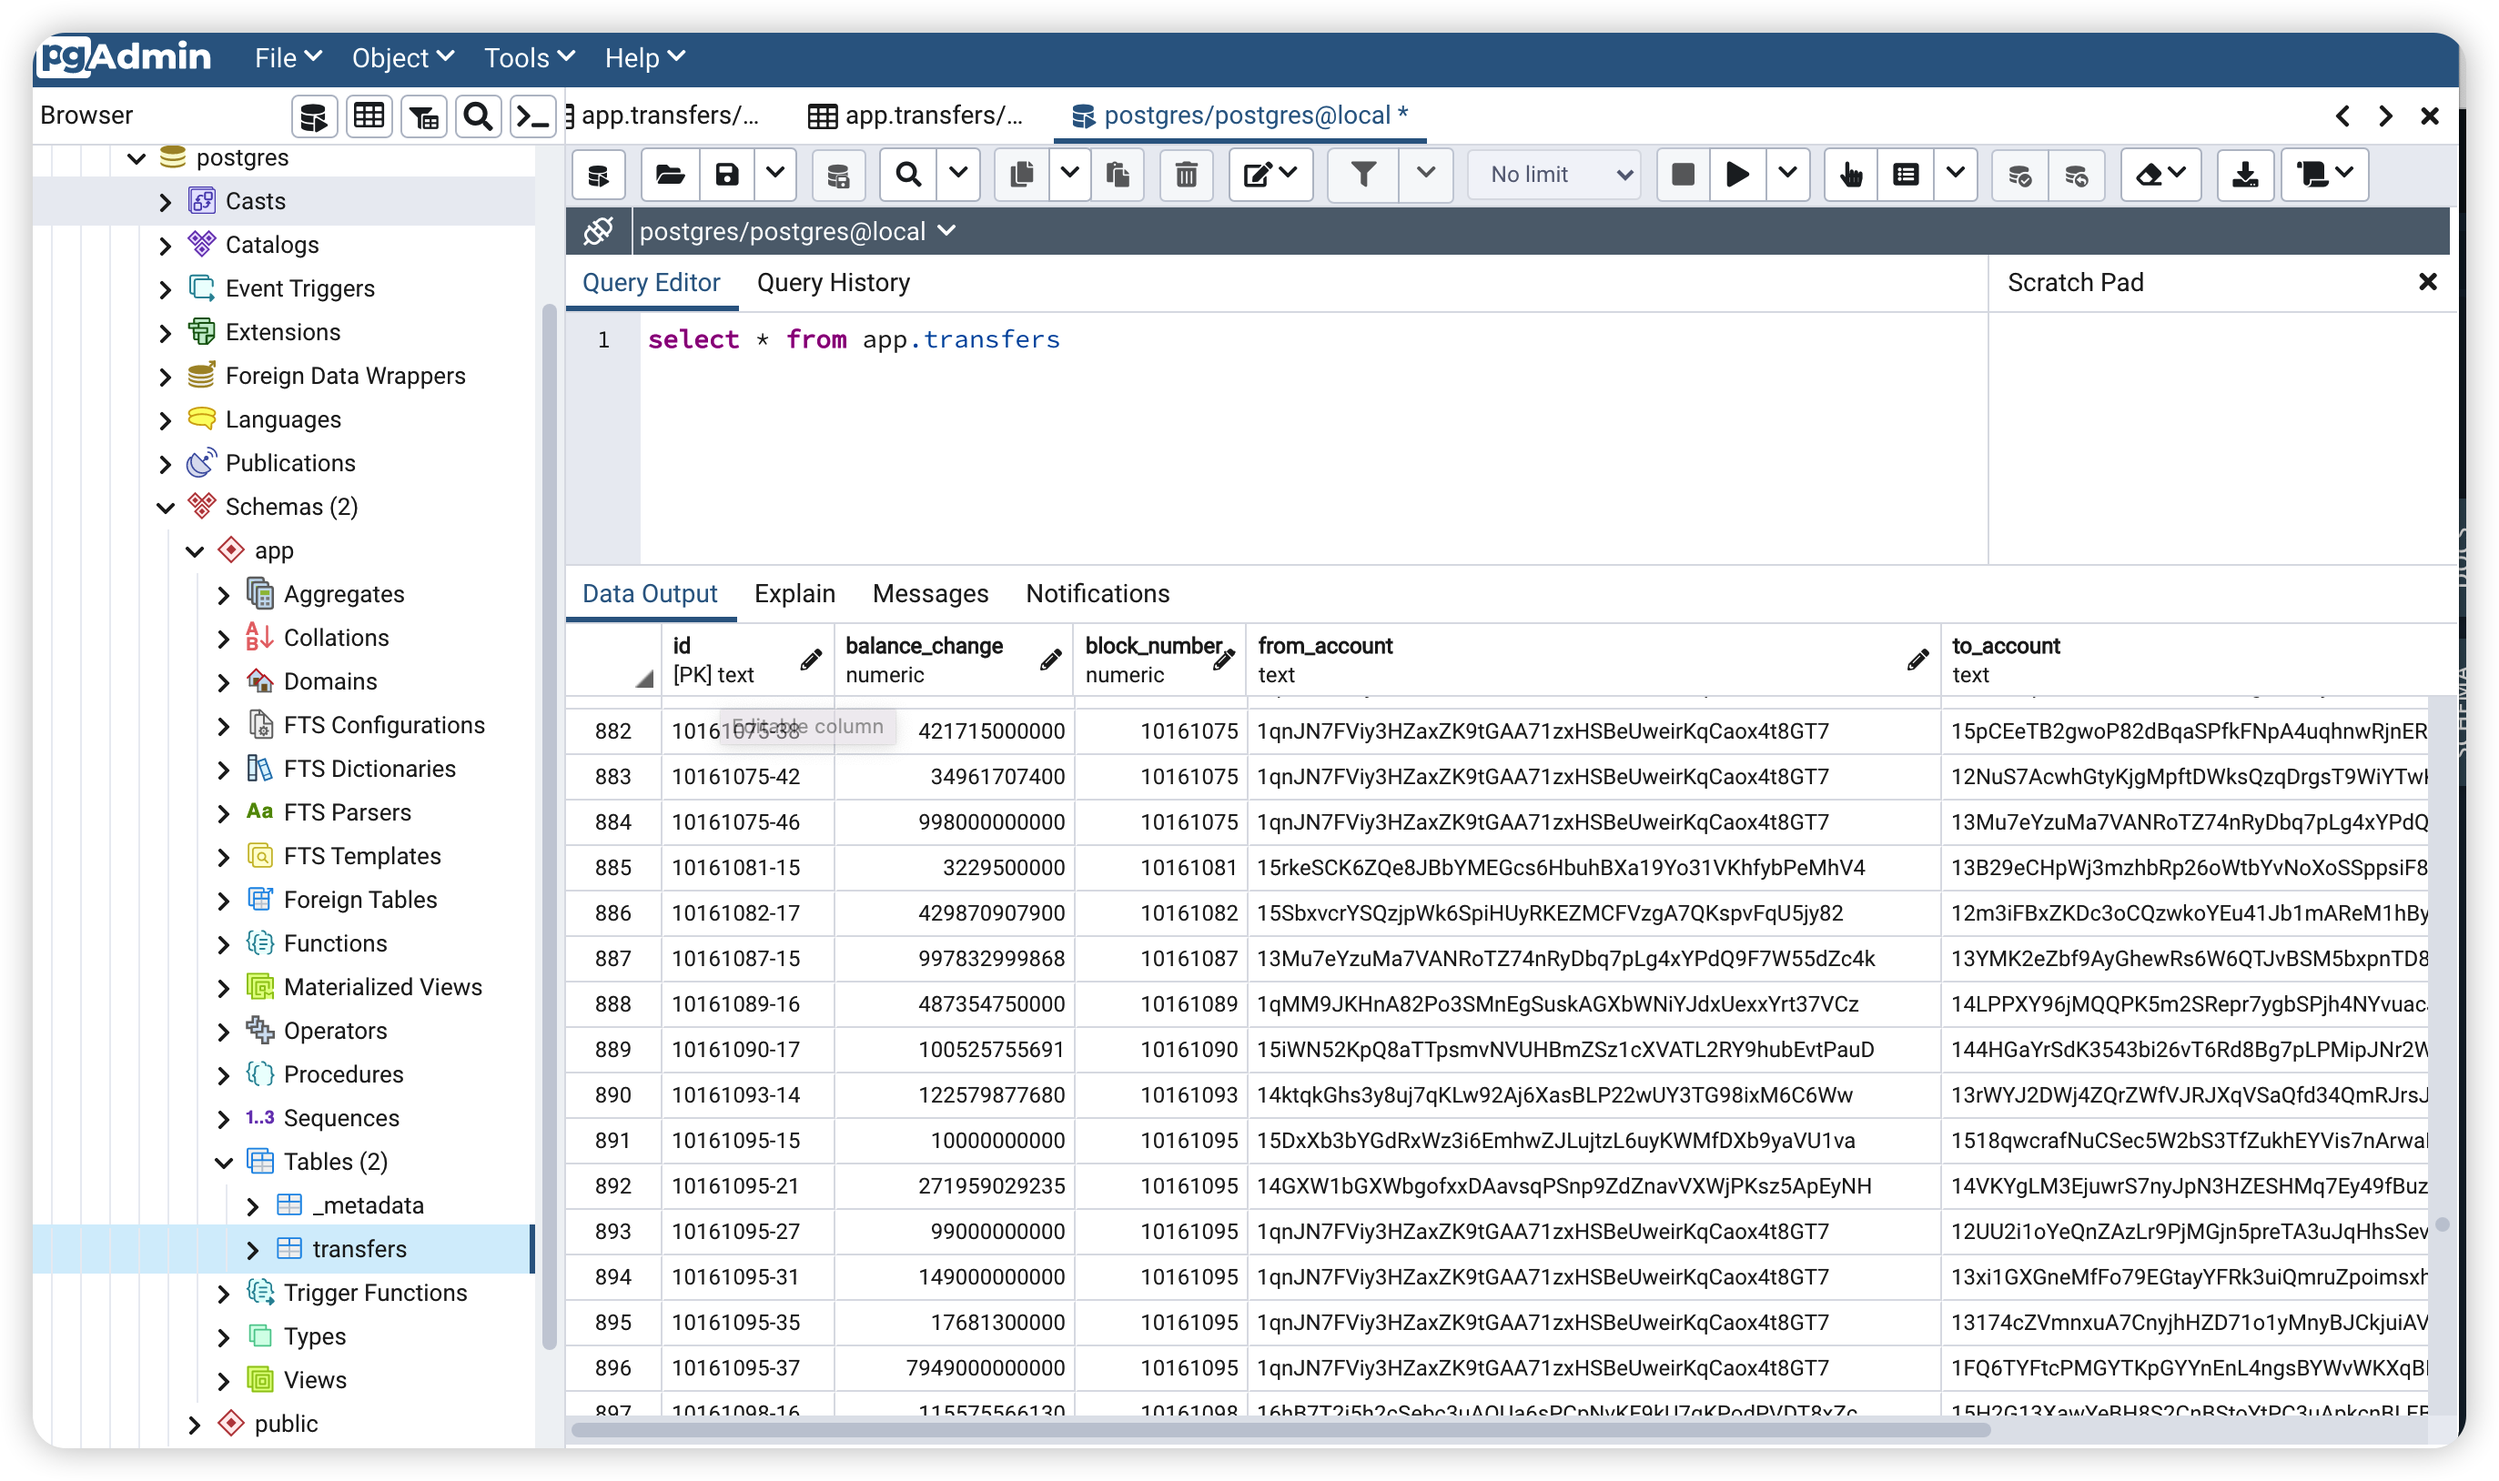
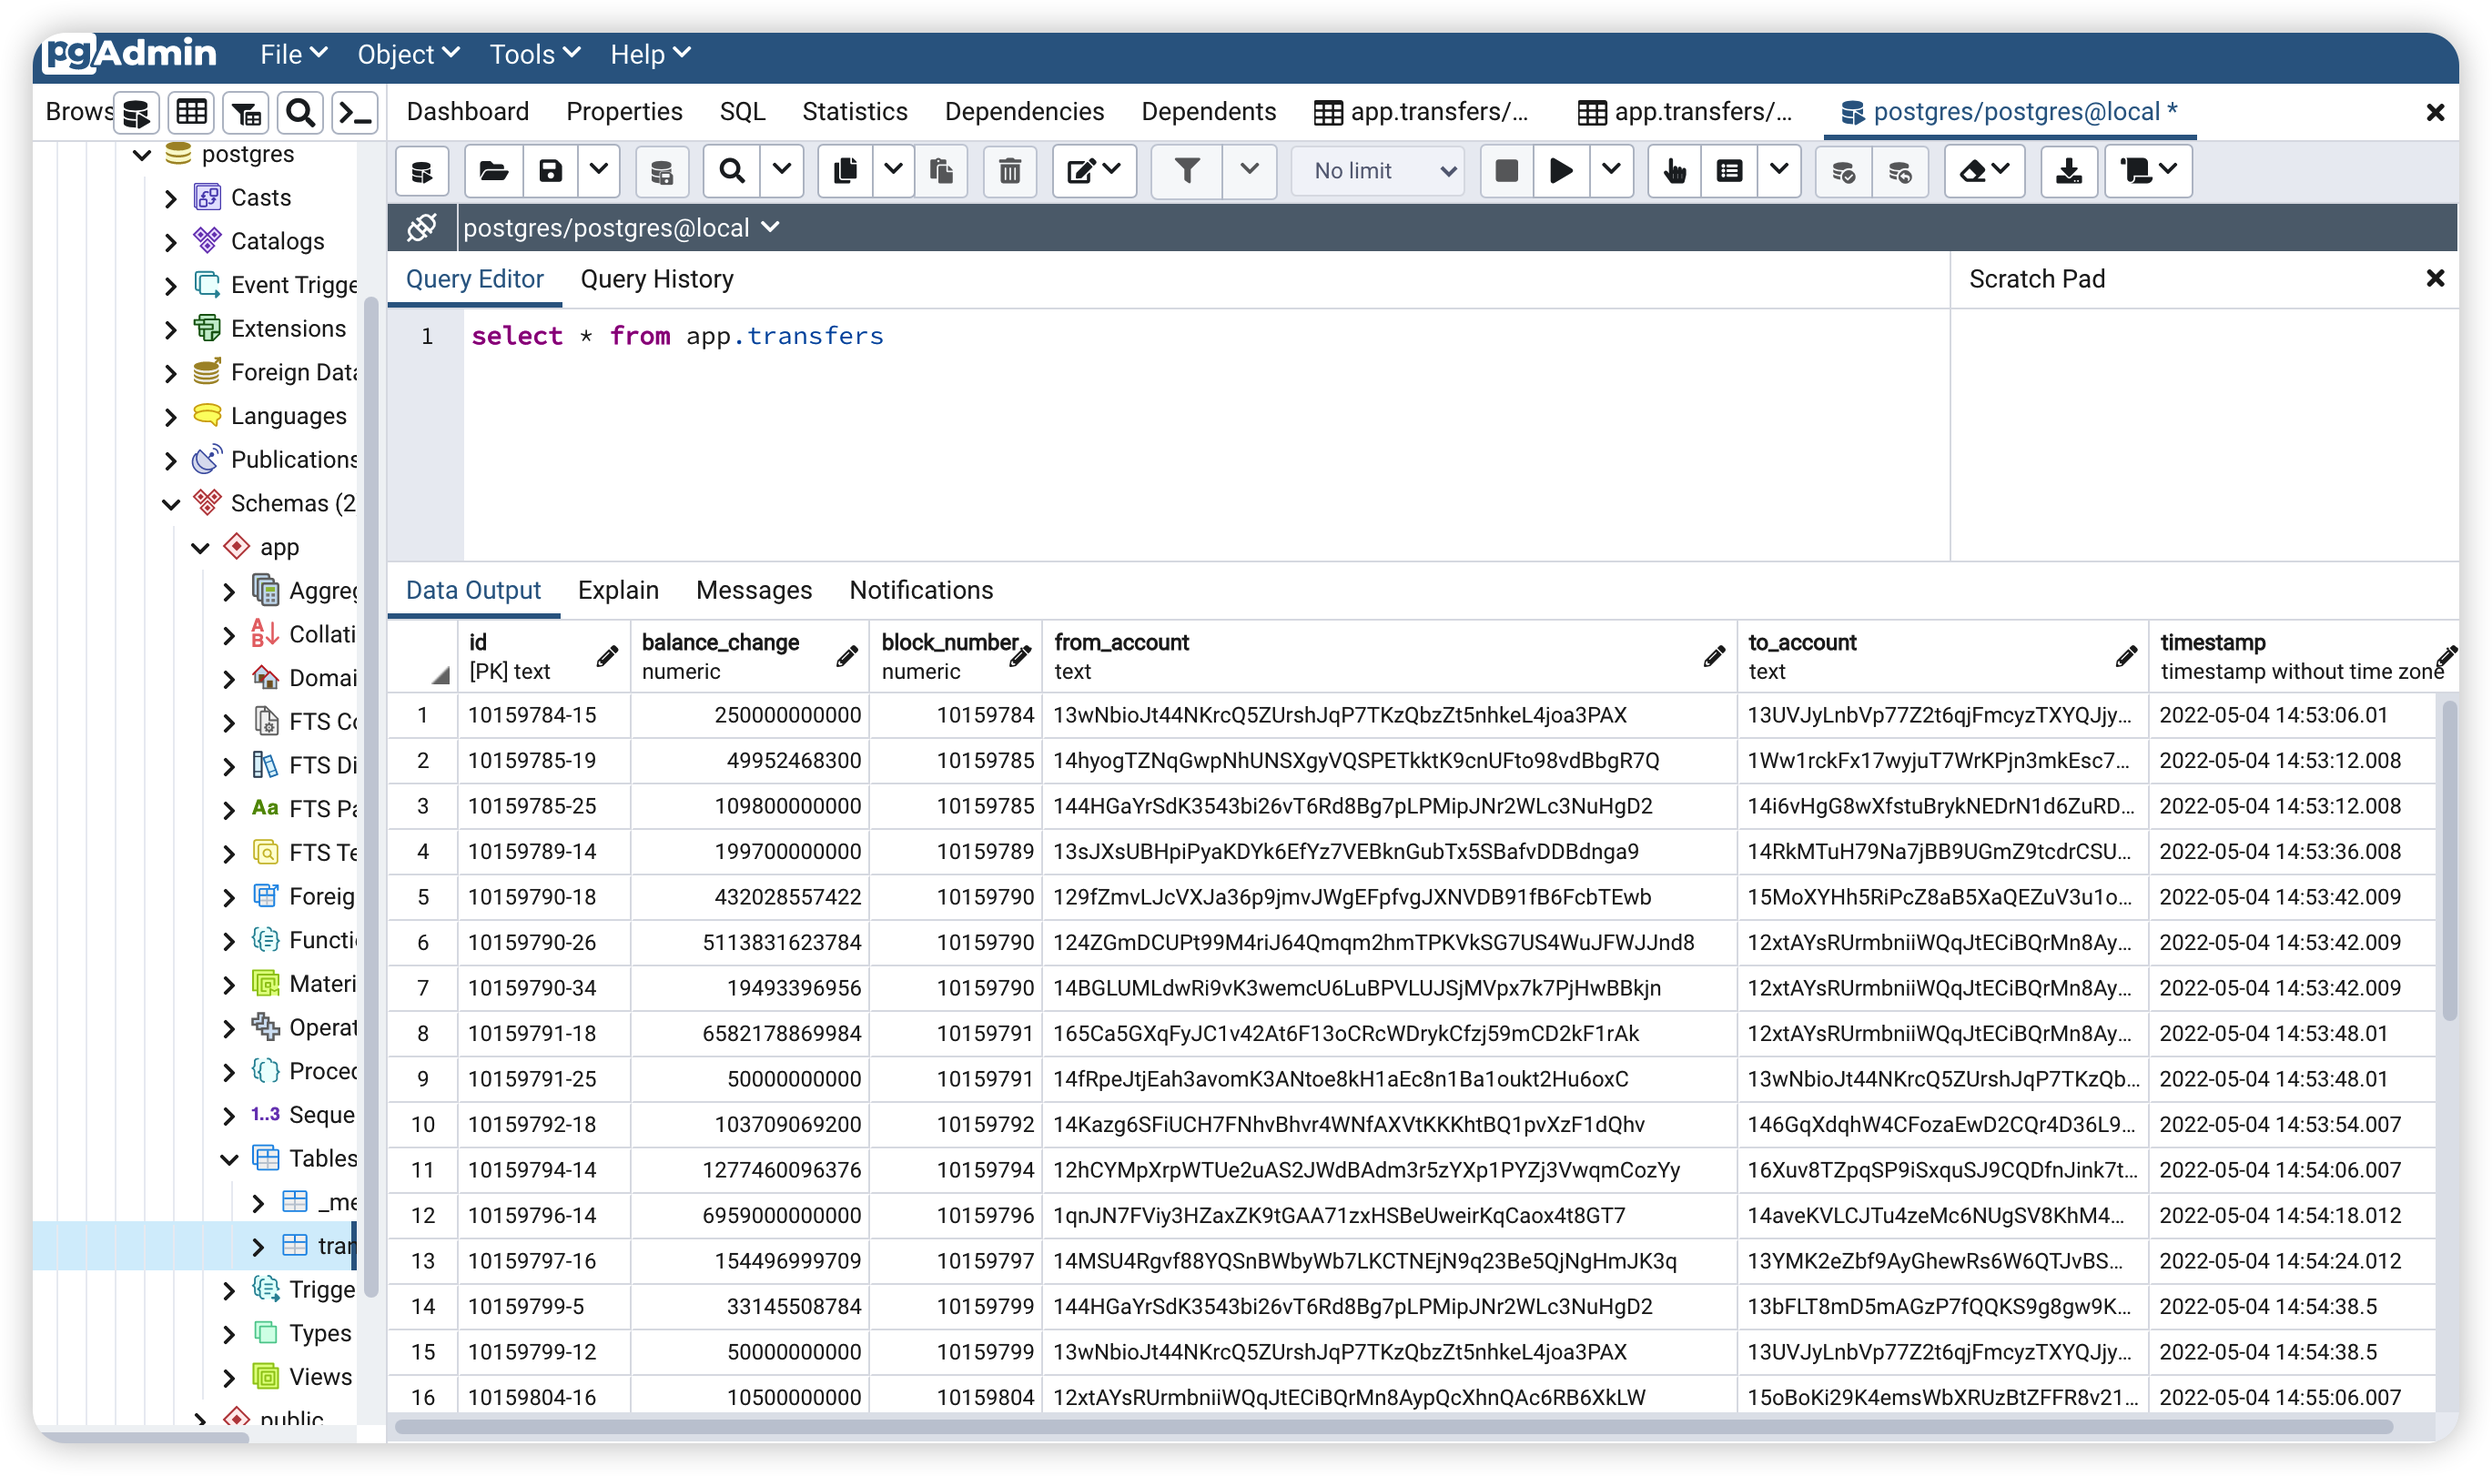
parse timestamp

Changed region(s): [[0.0, 0.0308, 0.9934, 0.9864], [0.7761, 0.185, 0.8692, 0.2158]]

diff --git a/src/mappings/mappingHandlers.ts b/src/mappings/mappingHandlers.ts
@@ -17,16 +17,17 @@ export async function handleEvent(event: SubstrateEvent): Promise<void> {
     transfer.blockNumber = event.block.block.header.number.toBigInt();
     transfer.fromAccount = fromAccount.toString();
     transfer.toAccount = toAccount.toString();
+    transfer.timestamp = event.block.timestamp;
     transfer.balanceChange = (balanceChange as Balance).toBigInt();
     await transfer.save();
 }
 
-export async function handleCall(extrinsic: SubstrateExtrinsic): Promise<void> {
-    const record = await Transfer.get(extrinsic.block.block.header.hash.toString());
-    if (record) {
-        //Date type timestamp
-        logger.info("==timestamp=" + extrinsic.block.timestamp);
-        record.timestamp = extrinsic.block.timestamp;
-        await record.save();
-    }
-}
+// export async function handleCall(extrinsic: SubstrateExtrinsic): Promise<void> {
+//     const record = await Transfer.get(extrinsic.block.block.header.hash.toString());
+//     if (record) {
+//         //Date type timestamp
+//         logger.info("==timestamp=" + extrinsic.block.timestamp);
+//         record.timestamp = extrinsic.block.timestamp;
+//         await record.save();
+//     }
+// }
